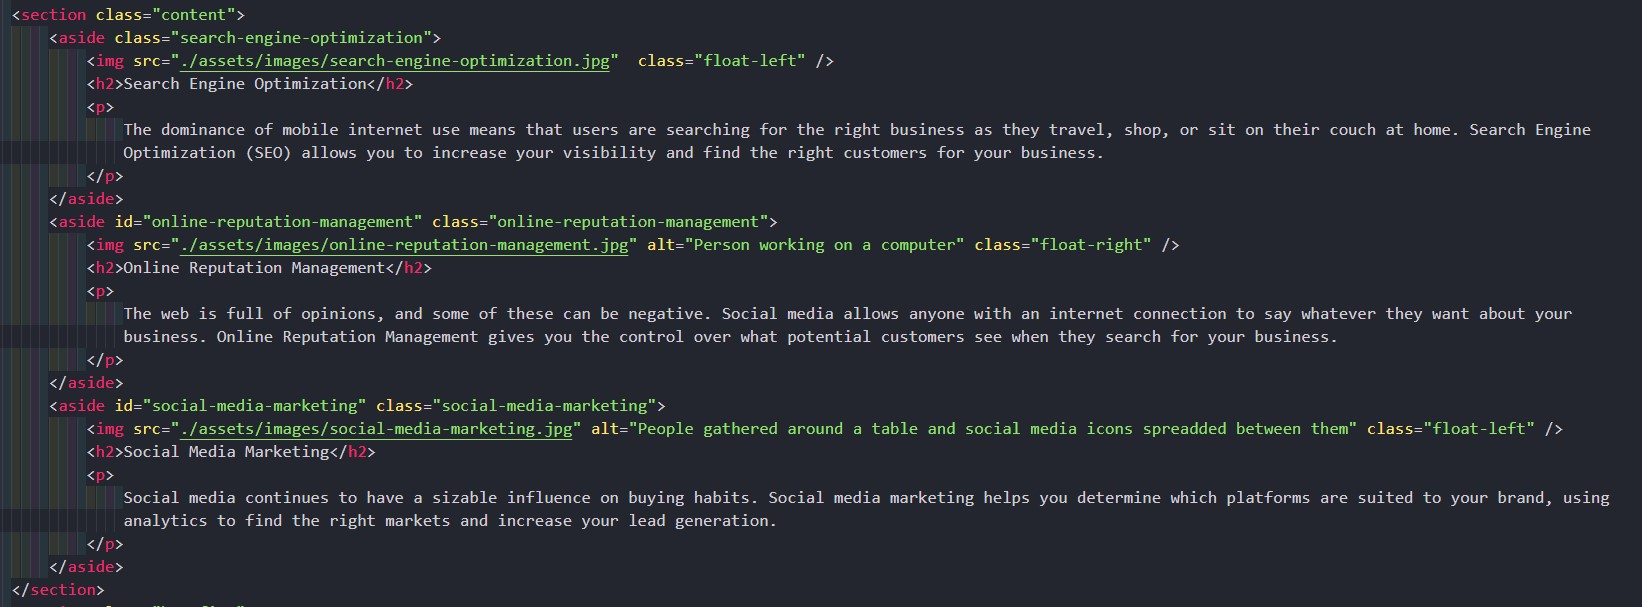
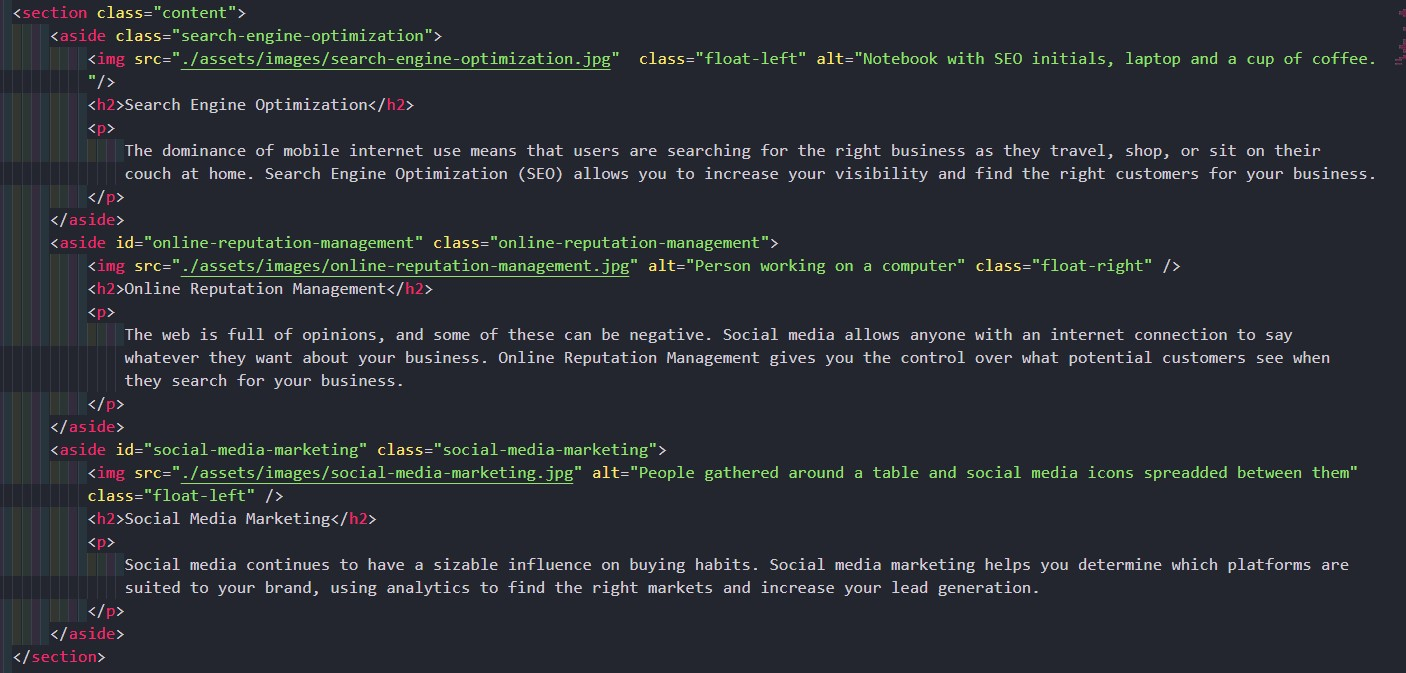
HTML changes made

Changed region(s): [[0.0, 0.0, 1.0, 0.5931], [0.0, 0.5931, 0.9787, 1.0]]

diff --git a/index.html b/index.html
@@ -23,7 +23,7 @@
             </ul>
         </nav>
     </header>
-    <div class="hero"></div>
+    <section class="hero"></section>
     <section class="content">
         <aside class="search-engine-optimization">
             <img src="./assets/images/search-engine-optimization.jpg"  class="float-left" alt="Notebook with SEO initials, laptop and a cup of coffee."/>
